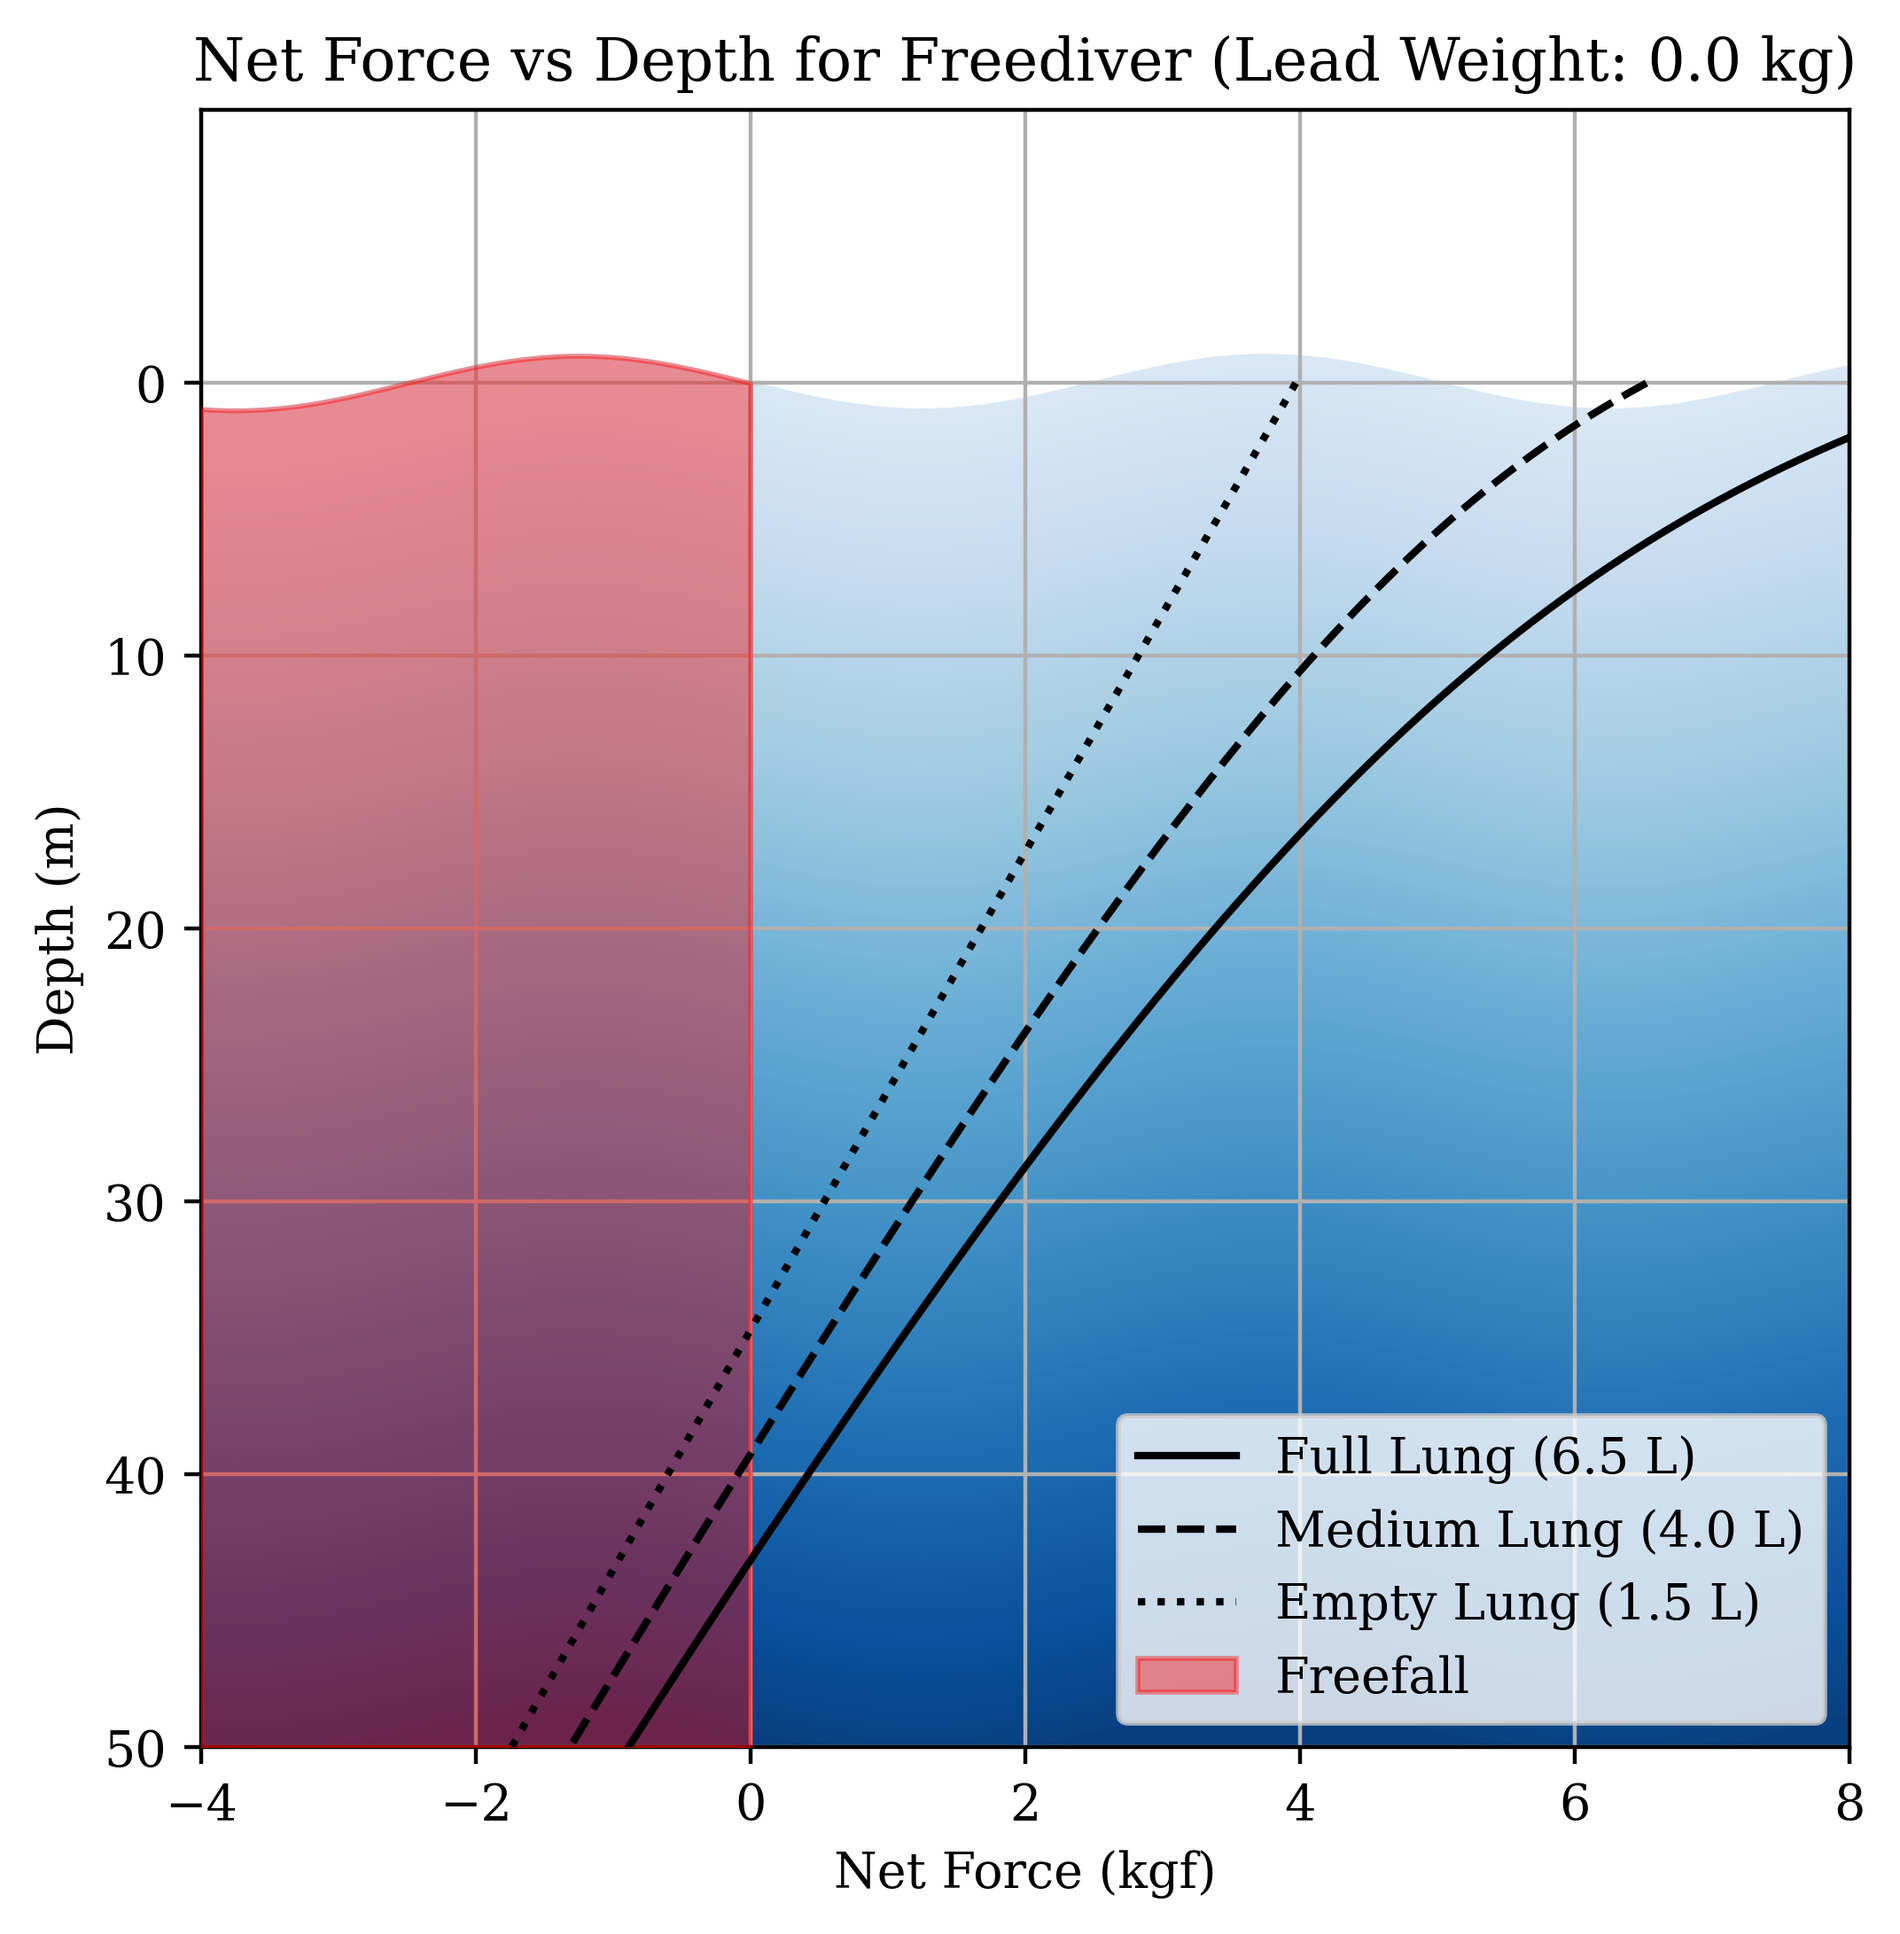
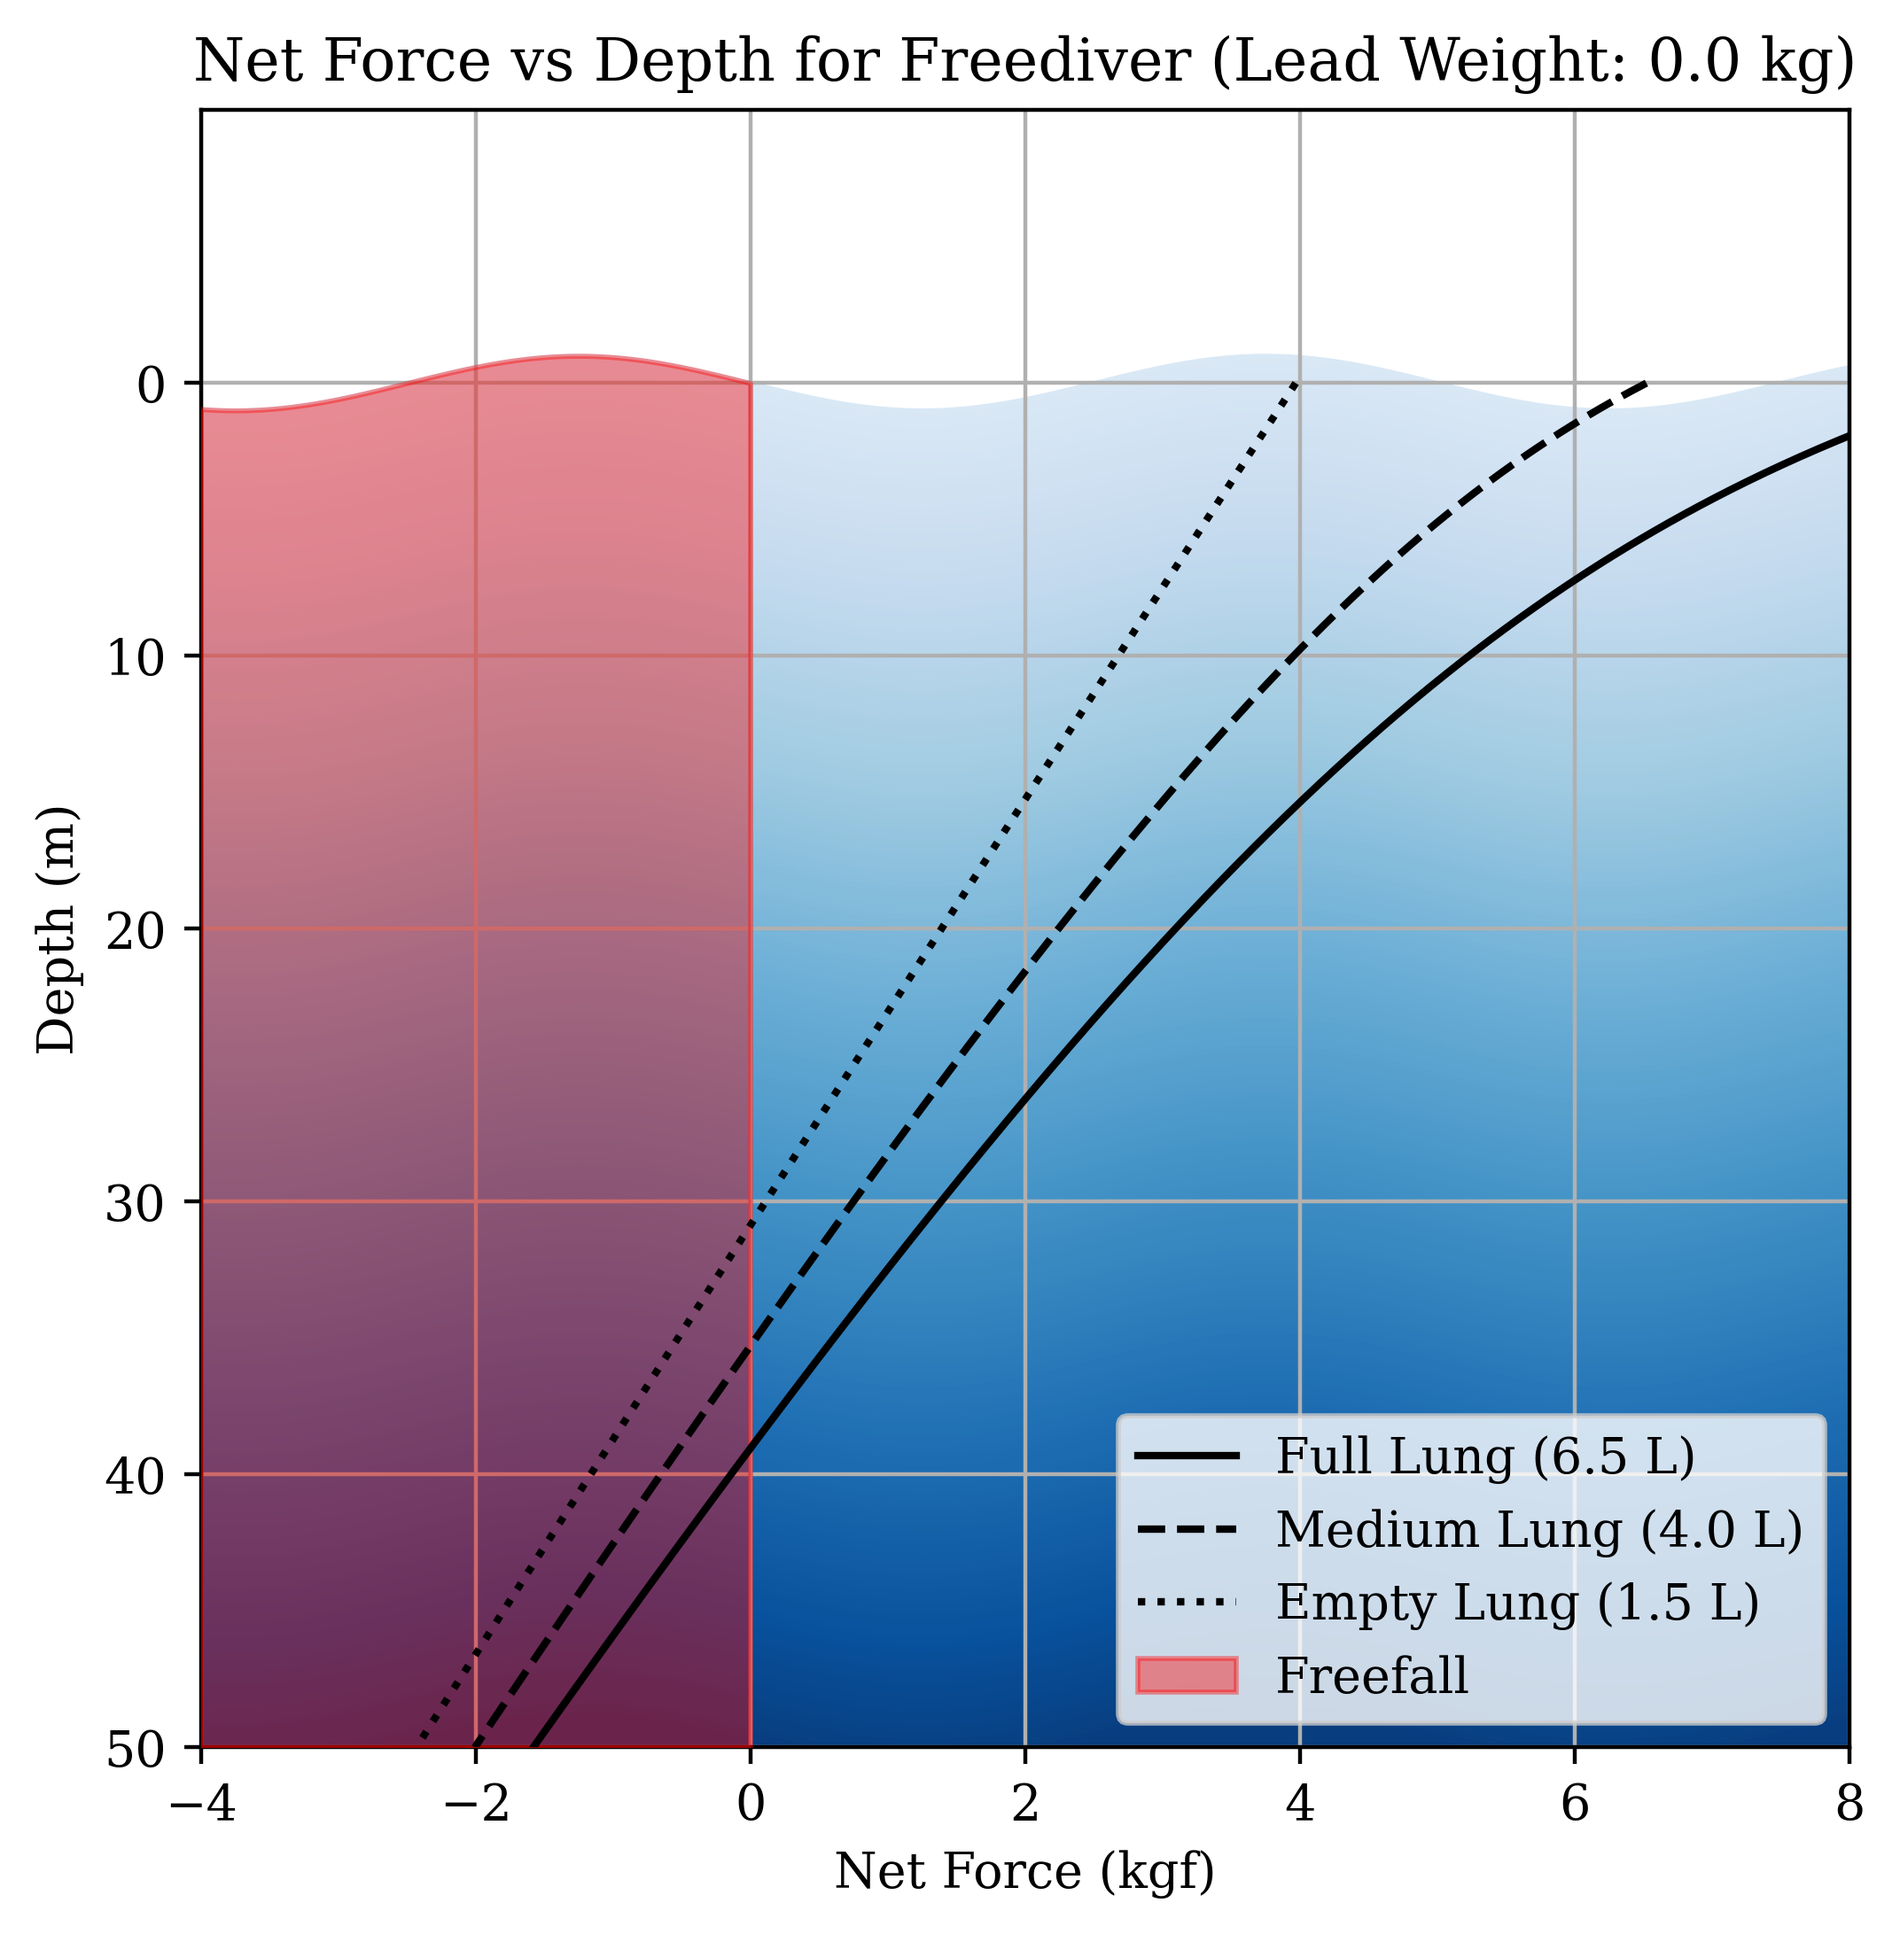
Improved body compressibility factors

diff --git a/freediving.py b/freediving.py
@@ -56,8 +56,8 @@ def plot_buoyancy_force_kgf(params):
                 weight_volume = params["lead_weight"] / 11340  # Volume of lead in m^3
 
                 total_displacement_volume = (
-                    volume_fat / (1 + d * 0.0005)
-                    + volume_lean / (1 + d * 0.0004)
+                    volume_fat / (1 + d * 0.1/100)
+                    + volume_lean / (1 + d * 0.05/100)
                     + lung_volume_at_depth
                     + wetsuit_volume_at_depth
                     + snorkel_volume

diff --git a/README.md b/README.md
@@ -95,8 +95,8 @@ This script makes several assumptions and approximations to simplify the modelin
 
 - **Body Compressibility**  
   - The compressibility of body tissues is modeled as:  
-    - Fat: Decreases in volume by **0.05% per meter of depth**.  
-    - Lean tissue: Decreases in volume by **0.04% per meter of depth**.  
+    - Fat: Decreases in volume by **0.1% per meter of depth**.  
+    - Lean tissue: Decreases in volume by **0.05% per meter of depth**.  
   - These values are approximations based on average tissue properties and may vary between individuals.
 
 - **Water Density**  
